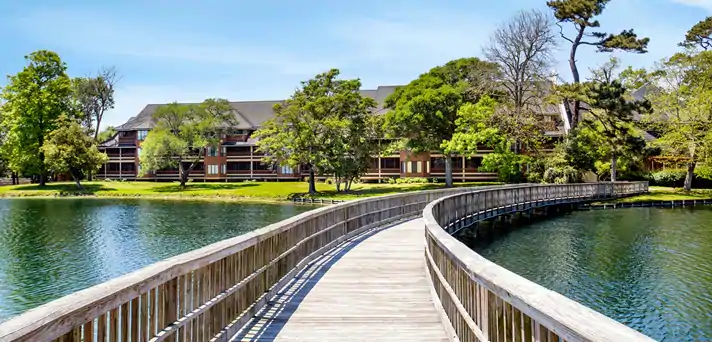
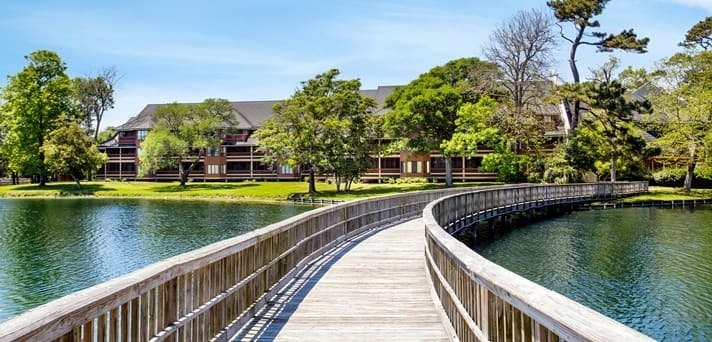
Fixed bug on iphone where 2 images were not display. Removed unused image assets.

diff --git a/kingston/index.html b/kingston/index.html
@@ -45,7 +45,7 @@ title: Beach Rental
 		section-heading="Relaxing"
 		image-class="relaxing"
 		image-caption="Stroll leisurely along the peaceful resort trails."
-		image-pixel-height="350"
+		image-pixel-height="400"
 		section-content="The colors, decor and furniture are designed with relaxing in mind. The condo has resort Wi-Fi, cable TV and a fully stocked kitchen. Towels, linens, shampoo, conditioner and lotion are all provided. So, pack up your clothes and head out the door, ready to relax. You don't even have to pack groceries, as there are restaurants and a coffee shop in the Embassy Suites hotel right beside the Brighton. Take a nap by the pool or on Kingston's private beach or stroll around the pristine grounds in tranquil settings."
 		button-next-id="amenities"
 		button-next-text="Amenities"
@@ -57,7 +57,7 @@ title: Beach Rental
 	{% include 408brighton/section_layout_image_left.html
 		section-heading="Full of Amenities"
 		image-class="amenities"
-		image-pixel-height="230"
+		image-pixel-height="400"
 		image-caption="The water park is directly adjacent to the Brighton."
 		section-content="Enjoy all the luxurious amenities Kingston Plantation has to offer, including heated outdoor and indoor pools; nearby golf courses; Jacuzzi's; tennis, volleyball and pickle ball courts; playground; miles of walking and nature trails surrounding the resort; many beach accesses with a boardwalk along the beach; water sports; bike and golf cart rentals; Apache Pier fishing; restaurants and bars; 78 Fitness and Health Club at the Landing; and Spa33. A 50,000 sq. ft. resort water park is located beside Brighton offering a lazy river, three whirlpools, and a Caribbean Water Playground, complete with water slides, jet sprays and more. The Hilton Resort has a sand bottom pool. Other resort features include:
 		<div class=\"row no-gutters\">
